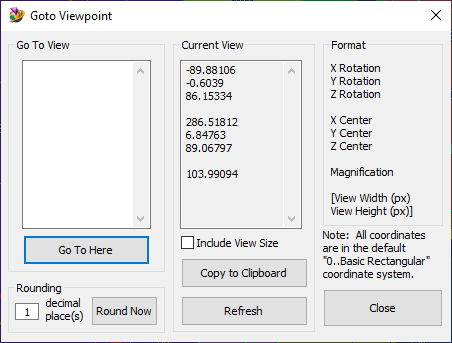
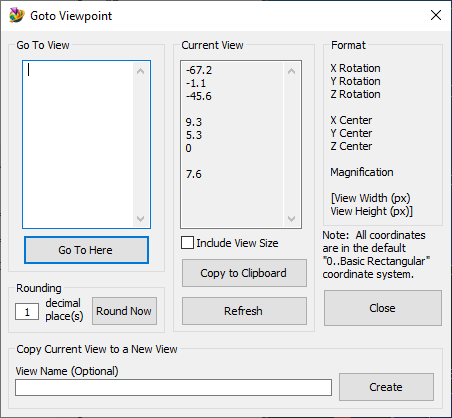
Updated to v4
Uploaded v4 code and image. Updated README

diff --git a/README.md b/README.md
@@ -1,11 +1,9 @@
 # Femap Viewpoint
 Lightweight program for listing and reloading basic view data.
 
-See also: [How to use Femap Scripts](https://github.com/aaronjasso/How_to_use_Femap_Scripts) and [The List of my Femap Scripts](https://github.com/aaronjasso/My-Femap-Scripts)
+See [How to use Femap Scripts](https://github.com/aaronjasso/How_to_use_Femap_Scripts) if you're unfamiliar with how to run a macro program
 
----
-
-This program will display basic model position, orientation, magnification, and (optionally) view window size data for your current FEM view. This makes it easy to return to a known view of your model, provided you saved the view information somewhere.
+This program will display basic model position, orientation, and magnification data (and optionally view window size) for your current FEM view. This makes it easy to return to a known view of your model, provided you saved the view information somewhere.
 
 This is useful for updating reports, presentations, or spreadsheets where you may have things like arrow leaders or text boxes positioned precisely over an FEM picture that needs to be updated. Being able to copy the _exact_ same view angle means you won't have to move any leaders or textboxes or any other separate entities that rely on the figure. It's also useful for returning to a useful orientation within Femap after some operation elsewhere. The view data is stored as plaintext. When making reports in Microsoft Word, I store the view data with my FEM pictures in the ALT TEXT section.
 
@@ -15,7 +13,7 @@ This is useful for updating reports, presentations, or spreadsheets where you ma
 ![Viewpoint](images/viewpoint.png)
 
 ##### Current View
- The current parameters of the view in the active Femap window are shown here. As shown in the _Format_ section, the view data is displayed as:
+ The current parameters of the view in the active Femap window are shown here. As stated in the **format** section, the view data is displayed as:
  ```
  X Rotation
  Y Rotation
@@ -42,19 +40,21 @@ The data in the clipboard can be used to return to the viewpoint it describes.
 #### Rounding
 The data defaults to five decimal places of precision. This can be unwieldy or unnecessary, so there's an option to round the data into a desired precision.
 
-The **Round Now** button will update the _Current View_ window with the number of decimal places specified in the _decimal place(s)_ input box. The actual view window containing the model is also updated.
+The **Round Now** button will update the _Current View_ window with the number of decimal places specified in the _decimal place(s)_ input box. The actual view window containint the model is also updated.
 
 ### Go To View
 Pasting previous viewpoint data into the input box and clicking _Go To Here_ will return the active Femap window to the view described by the data. The ability to return to a previously used view is the main purpose of this program.
 
----
+### Copy Current View to a New View
+Copies the current view to a new Femap View. The new View will be titled "Viewpoint (auto-generated)" unless you supply a name in the text input field.
+
+The Create button makes the view and closes the macro.
 
 ### Notes
 
 **View Size**
+As of Femap 2019.1, there's not an API call to get the size of the active view. To get around this, I use a hack that involves saving a bitmap of the active view, interrogating the bitmap header to get the size, and then deleting the bitmap.
 
-As of Femap 2019.1, there's not an API call to get the size of the active view. To get around this, I use a hack that involves saving a bitmap of the active view, interrogating the bitmap header to get its size, and then deleting the bitmap.
+This requires use of the `feFilePictureSave2` API function which writes "Picture Save to Image Complete.  Image File: FemapTempPic.bmp" to the message window. This message is unnecessary and potentially confusing, but I haven't found a way to prevent it.
 
-This requires use of the `feFilePictureSave2` API method which writes `Picture Save to Image Complete.  Image File: FemapTempPic.bmp` to the message window. This message is unnecessary and potentially confusing, but I haven't found a way to prevent it.
-
-This hack also relies on the `%TEMP%` environmental variable, and has only been tested on Windows systems. On other platforms, the _Include View Size_ option may not work.
+This hack also relies on the %TEMP% environmental variable, and has only been tested on Windows systems. On other platforms, the _Include View Size_ option may not work.
